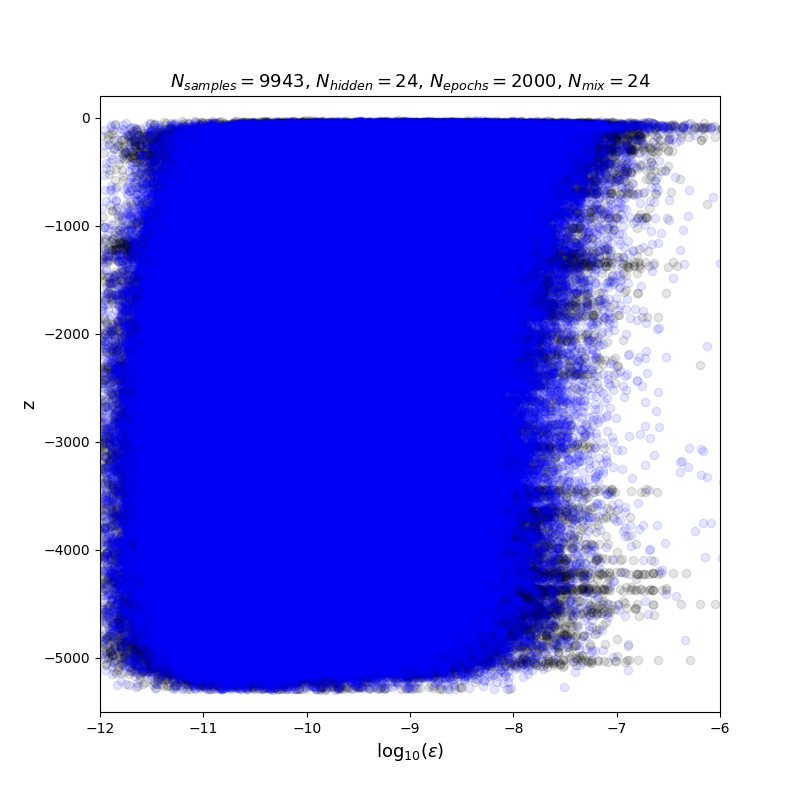
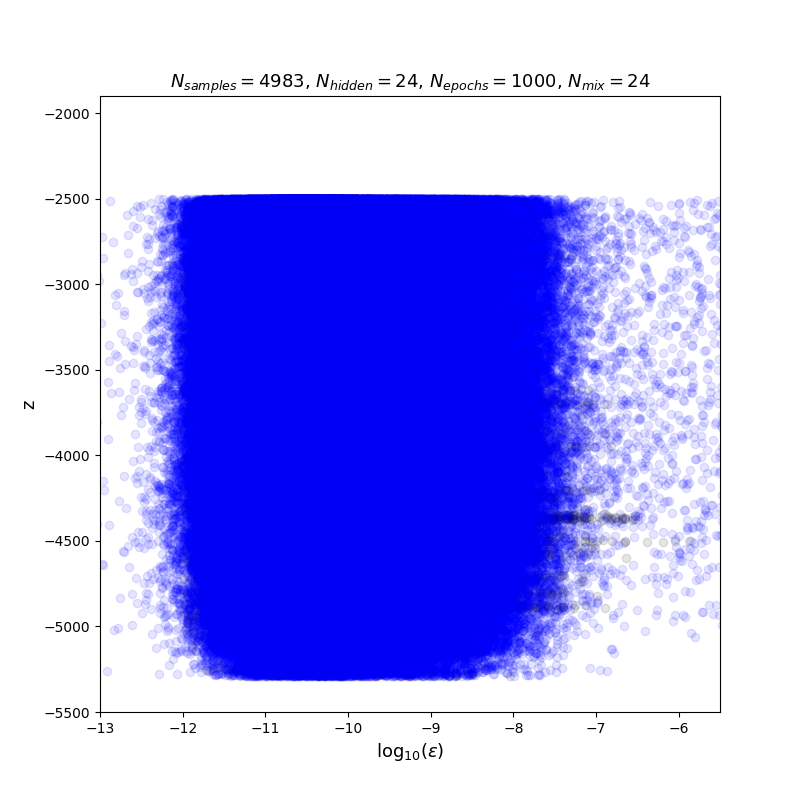
pdf prediction added

diff --git a/TensorOcean.py b/TensorOcean.py
@@ -31,24 +31,26 @@ SA = np.empty([0])
 CT = np.empty([0])
 eps = np.empty([0])
 z = np.empty([0])
-
+NMULTI = 4
 
 # loop over folder path
 count = 0
 plot_filenames = []
 
-
 onlyfiles = [f for f in listdir(data_path) if isfile(join(data_path, f))]
 Nfiles = np.shape(onlyfiles)[0] # number of files (time steps)
 
-Nfiles = 60
+Nfiles = 40
+Noffset = 10
+Nfiles0 = Nfiles
 
-for j in range(0,Nfiles):
+for j in range(Noffset,Nfiles+Noffset):
    my_file = data_path + '/' + onlyfiles[j] 
    print('file =', my_file)
    [N2j, SAj, CTj, epsj, zj] = fn.get_hydro(my_file,count)
    [N2j, SAj, CTj, epsj, zj] = fn.nanrid( N2j, SAj, CTj, epsj, zj )
    [N2j, SAj, CTj, epsj, zj] = fn.remove_outliers( N2j, SAj, CTj, epsj, zj )
+   [N2j, SAj, CTj, epsj, zj] = fn.throw_points_in_z( N2j, SAj, CTj, epsj, zj , -2500.)
    # do bin means
    N2=np.concatenate((N2,N2j),axis=0)
    SA=np.concatenate((SA,SAj),axis=0)
@@ -58,10 +60,20 @@ for j in range(0,Nfiles):
    count = count + 1
    #plot_filenames = np.append(plot_filenames,my_file)
 
-# add distribution
-
-NMULTI = 4
+#fn.pdf_plot( N2, SA, CT, eps, z )
 NSAMPLE = np.shape(N2)[0]
+
+train_log10eps = np.log10(eps)
+binsize1 = int((np.log10(np.amax(eps))-np.log10(np.amin(eps)))/0.05)
+plotname = figure_path +'training_histogram_eps.png' 
+fig = plt.figure(figsize=(8,5))
+plt.hist(train_log10eps, color = 'blue', edgecolor = 'black',
+         bins = binsize1)
+plt.xlabel(r"log$_{10}(\varepsilon)$",fontsize=13)
+plt.ylabel(r"number of measurements",fontsize=13)
+plt.title(r"training data $N_{samples}=$%i" %(NSAMPLE),fontsize=13)
+plt.xlim([-12.5,-6.5])
+plt.savefig(plotname,format="png"); plt.close(fig);
 
 plotname = figure_path +'training_data.png' 
 fig = plt.figure(figsize=(8, 8))
@@ -80,7 +92,7 @@ X_DATA[:,3] = SA[:]
 
 y_data = np.zeros([NSAMPLE,1])
 y_data[:,0] = np.log10(eps[:])
-print(np.shape(y_data))
+#print(np.shape(y_data))
 
 z_train = z
 
@@ -93,23 +105,23 @@ CT = np.empty([0])
 eps = np.empty([0])
 z = np.empty([0])
 
-
 # loop over folder path
 count = 0
 plot_filenames = []
 
-
 onlyfiles = [f for f in listdir(data_path) if isfile(join(data_path, f))]
 Nfiles = np.shape(onlyfiles)[0] # number of files (time steps)
 
-Nfiles = 1
+Nfiles2 = 1
+Noffset = 42
 
-for j in range(42,Nfiles+42):
+for j in range(Noffset,Nfiles2+Noffset):
    my_file = data_path + '/' + onlyfiles[j] 
    print('file =', my_file)
    [N2j, SAj, CTj, epsj, zj] = fn.get_hydro(my_file,count)
    [N2j, SAj, CTj, epsj, zj] = fn.nanrid( N2j, SAj, CTj, epsj, zj )
    [N2j, SAj, CTj, epsj, zj] = fn.remove_outliers( N2j, SAj, CTj, epsj, zj )
+   [N2j, SAj, CTj, epsj, zj] = fn.throw_points_in_z( N2j, SAj, CTj, epsj, zj , -2500.)
    # do bin means
    N2=np.concatenate((N2,N2j),axis=0)
    SA=np.concatenate((SA,SAj),axis=0)
@@ -119,10 +131,19 @@ for j in range(42,Nfiles+42):
    count = count + 1
    #plot_filenames = np.append(plot_filenames,my_file)
 
-# add distribution
-
-NMULTI = 4
 NSAMPLE = np.shape(N2)[0]
+
+test_log10eps = np.log10(eps)
+binsize2 = int((np.log10(np.amax(eps))-np.log10(np.amin(eps)))/0.05)
+plotname = figure_path +'test_histogram_eps.png' 
+fig = plt.figure(figsize=(8,5))
+plt.hist(test_log10eps, color = 'blue', edgecolor = 'black',
+         bins = binsize2)
+plt.xlabel(r"log$_{10}(\varepsilon)$",fontsize=13)
+plt.ylabel(r"number of measurements",fontsize=13)
+plt.title(r"test data $N_{samples}=$%i" %(NSAMPLE),fontsize=13)
+plt.xlim([-12.5,-6.5])
+plt.savefig(plotname,format="png"); plt.close(fig);
 
 plotname = figure_path +'test_data.png' 
 fig = plt.figure(figsize=(8, 8))
@@ -137,11 +158,9 @@ X_TEST[:,0] = N2[:]
 X_TEST[:,1] = z[:]
 X_TEST[:,2] = CT[:]
 X_TEST[:,3] = SA[:]
-#print(np.shape(X_DATA))
 
 y_test = np.zeros([NSAMPLE,1])
 y_test[:,0] = np.log10(eps[:])
-print(np.shape(y_test))
 
 z_test = z
 
@@ -178,7 +197,7 @@ sess = tf.InteractiveSession()
 sess.run(tf.global_variables_initializer())
 
 # = 6000 for NHIDDEN = 24, STDEV = 0.5, KMIX = 24
-NEPOCH = 2000 
+NEPOCH = 1000 
 loss = np.zeros(NEPOCH) # store the training progress here.
 for i in range(NEPOCH):
   sess.run(train_op,feed_dict={x: X_DATA, y: y_data})
@@ -192,20 +211,56 @@ plt.xlabel(r"$N_{epoch}$",fontsize=13)
 plt.title(r"$N_{samples}=$%i, $N_{hidden}=$%i, $N_{epochs}=$%i, $N_{mix}=$%i" %(NSAMPLE,NHIDDEN,NEPOCH,KMIX),fontsize=13)
 plt.savefig(plotname,format="png"); plt.close(fig);
 
-
 # training data prediction:
 out_pi_train, out_sigma_train, out_mu_train = sess.run(fn.get_mixture_coeff(output,KMIX), feed_dict={x: X_DATA})
-y_train_pred = fn.generate_ensemble( out_pi_train, out_mu_train, out_sigma_train, X_DATA , 1 )
-
-#print(np.shape(out_pi_train), np.shape(out_mu_train), np.shape(out_sigma_train))
+y_train_pred = fn.generate_ensemble( out_pi_train, out_mu_train, out_sigma_train, X_DATA , 10 )
+#print(np.shape(out_pi_train), np.shape(out_sigma_train), np.shape(out_mu_train))
 
 # test data prediction:
 out_pi_test, out_sigma_test, out_mu_test = sess.run(fn.get_mixture_coeff(output,KMIX), feed_dict={x: X_TEST})
-y_test_pred = fn.generate_ensemble( out_pi_test, out_mu_test, out_sigma_test, X_TEST , 1 )
-
-#print(np.shape(out_pi_test), np.shape(out_mu_test), np.shape(out_sigma_test))
+y_test_pred = fn.generate_ensemble( out_pi_test, out_mu_test, out_sigma_test, X_TEST , 10 )
+#print(np.shape(out_pi_test), np.shape(out_sigma_test), np.shape(out_mu_test))
 
 sess.close()
+
+#print(np.shape(y_test_pred))
+#print(np.shape(y_train_pred))
+y_test_pred_f = np.ndarray.flatten(y_test_pred)
+y_train_pred_f = np.ndarray.flatten(y_train_pred)
+#print(np.shape(y_test_pred_f))
+#print(np.shape(y_train_pred_f))
+
+
+
+#binsize = int( (np.amax(y_train_pred)-np.amin(y_train_pred))/0.05 )
+plotname = figure_path +'train_histogram_eps_prediction.png' 
+fig = plt.figure(figsize=(8,5))
+#plt.hist(y_train_pred_f, color = 'purple', edgecolor = 'black',bins = binsize1)
+plt.hist(y_train_pred[:,0], color = 'red', edgecolor = 'black',bins = int(binsize1*4), alpha = 0.2,label=r"prediction")
+plt.hist(train_log10eps, color = 'blue', edgecolor = 'black', bins = binsize2, alpha = 0.25,label=r"data")
+plt.xlabel(r"log$_{10}(\varepsilon)$",fontsize=13)
+plt.ylabel(r"samples",fontsize=13)
+#plt.title(r"training data $N_{samples}=$%i" %(np.shape(y_train_pred_f)[0]),fontsize=13)
+#plt.title(r"training data $N_{samples}=$%i" %(np.shape(y_train_pred[:,0])[0]),fontsize=13)
+plt.title(r"training data, $N_{profiles}=$%i" %(Nfiles0),fontsize=13)
+plt.xlim([-12.5,-6.5]) #0.,np.amax(y_train_pred[:,0])*1.1])
+plt.legend(loc=1)
+plt.savefig(plotname,format="png"); plt.close(fig);
+
+#binsize = int( (np.amax(y_test_pred)-np.amin(y_test_pred))/0.05 )
+plotname = figure_path +'test_histogram_eps_prediction.png' 
+fig = plt.figure(figsize=(8,5))
+#plt.hist(y_test_pred_f, color = 'purple', edgecolor = 'black',bins = binsize2)
+plt.hist(y_test_pred[:,0], color = 'red', edgecolor = 'black',bins = int(binsize2*7), alpha = 0.2,label=r"prediction")
+plt.hist(test_log10eps, color = 'blue', edgecolor = 'black', bins = binsize2, alpha = 0.25,label=r"data")
+plt.xlabel(r"log$_{10}(\varepsilon)$",fontsize=13)
+plt.ylabel(r"samples",fontsize=13)
+#plt.title(r"test data $N_{samples}=$%i" %(np.shape(y_test_pred_f)[0]),fontsize=13)
+#plt.title(r"test data $N_{samples}=$%i" %(np.shape(y_test_pred[:,0])[0]),fontsize=13)
+plt.title(r"test data, $N_{profiles}=$%i" %(Nfiles2),fontsize=13)
+plt.legend(loc=1)
+plt.xlim([-12.5,-6.5]) #plt.axis([-12.5,-6.5,0.,np.amax(y_test_pred[:,0])*1.1])
+plt.savefig(plotname,format="png"); plt.close(fig);
 
 plotname = figure_path +'training_prediction_mdn.png' 
 fig = plt.figure(figsize=(8, 8))
@@ -214,7 +269,7 @@ plt.plot(y_train_pred,z_train,'bo',alpha=alpha_level,label=r"predictions")
 plt.ylabel(r"z",fontsize=13)
 plt.xlabel(r"log$_{10}(\varepsilon)$",fontsize=13)
 plt.title(r"$N_{samples}=$%i, $N_{hidden}=$%i, $N_{epochs}=$%i, $N_{mix}=$%i" %(NSAMPLE,NHIDDEN,NEPOCH,KMIX),fontsize=13)
-plt.axis([-12.,-6.,-5500.,200.])
+plt.axis([-13,-5.5,-5500.,-1900.])
 plt.savefig(plotname,format="png"); plt.close(fig);
 
 plotname = figure_path +'test_prediction_mdn.png' 
@@ -224,14 +279,62 @@ plt.plot(y_test_pred,z_test,'bo',alpha=alpha_level,label=r"predictions")
 plt.ylabel(r"z",fontsize=13)
 plt.xlabel(r"log$_{10}(\varepsilon)$",fontsize=13)
 plt.title(r"$N_{samples}=$%i, $N_{hidden}=$%i, $N_{epochs}=$%i, $N_{mix}=$%i" %(NSAMPLE,NHIDDEN,NEPOCH,KMIX),fontsize=13)
-plt.axis([-12.,-6.,-5200.,0.])
+plt.axis([-13,-5.5,-5500.,-1900.])
 plt.savefig(plotname,format="png"); plt.close(fig);
 
 
+"""
+plotname = figure_path +'training_prediction_mdn_priors.png'
+fig = plt.figure(figsize=(8, 8))
+plt.plot(out_pi_train,z_train,'ko',alpha=alpha_level,label=r"priors")
+plt.ylabel(r"z",fontsize=13)
+plt.xlabel(r"$\alpha_i$(z), i=[1,$N_{mix}$]",fontsize=13)
+plt.title(r"$N_{samples}=$%i, $N_{hidden}=$%i, $N_{epochs}=$%i, $N_{mix}=$%i" %(NSAMPLE,NHIDDEN,NEPOCH,KMIX),fontsize=13)
+plt.savefig(plotname,format="png"); plt.close(fig);
+
+plotname = figure_path +'test_prediction_mdn_priors.png'
+fig = plt.figure(figsize=(8, 8))
+plt.plot(out_pi_test,z_test,'ko',alpha=alpha_level,label=r"priors")
+plt.ylabel(r"z",fontsize=13)
+plt.xlabel(r"$\alpha_i$(z), i=[1,$N_{mix}$]",fontsize=13)
+plt.title(r"$N_{samples}=$%i, $N_{hidden}=$%i, $N_{epochs}=$%i, $N_{mix}=$%i" %(NSAMPLE,NHIDDEN,NEPOCH,KMIX),fontsize=13)
+plt.savefig(plotname,format="png"); plt.close(fig);
+"""
+
+
+
+
+"""
+plotname = figure_path +'training_prediction_mdn_means.png'
+fig, ax1 = plt.subplots(figsize=(8, 8)) # = plt.figure(figsize=(8, 8))
+plt.plot(out_mu_train,z_train,'bo',alpha=alpha_level,label=r"mixture means")
+plt.plot(y_train_pred,z_train,'ro',alpha=alpha_level,label=r"prediction")
+ax2 = ax1.twinx()
+ax1.set_xlabel(r"x",fontsize=13)
+ax1.set_ylabel(r"y(x)",fontsize=13,color='red')
+ax2.set_ylabel(r"$\mu_i$(x), i=[1,$N_{mix}$]",fontsize=13,color='blue')
+plt.title(r"$N_{samples}=$%i, $N_{hidden}=$%i, $N_{epochs}=$%i, $N_{mix}=$%i" %(NSAMPLE,NHIDDEN,NEPOCH,KMIX),fontsize=13)
+plt.savefig(plotname,format="png"); plt.close(fig);
+
+plotname = figure_path +'test_prediction_mdn_means.png'
+fig, ax1 = plt.subplots(figsize=(8, 8)) # = plt.figure(figsize=(8, 8))
+plt.plot(out_mu_test,z_test,'bo',alpha=alpha_level,label=r"mixture means")
+plt.plot(y_test_pred,z_test,'ro',alpha=alpha_level,label=r"prediction")
+ax2 = ax1.twinx()
+ax1.set_xlabel(r"x",fontsize=13)
+ax1.set_ylabel(r"y(x)",fontsize=13,color='red')
+ax2.set_ylabel(r"$\mu_i$(x), i=[1,$N_{mix}$]",fontsize=13,color='blue')
+plt.title(r"$N_{samples}=$%i, $N_{hidden}=$%i, $N_{epochs}=$%i, $N_{mix}=$%i" %(NSAMPLE,NHIDDEN,NEPOCH,KMIX),fontsize=13)
+plt.savefig(plotname,format="png"); plt.close(fig);
+"""
+
+
+"""
 Nwindow = 40
+
 z_test_smooth = fn.smooth(z_test,Nwindow,'hanning')
-y_test_smooth = fn.smooth(y_test[:,0],Nwindow,'hanning')
-y_test_pred_smooth = fn.smooth(y_test_pred[:,0],Nwindow,'hanning')
+y_test_smooth = fn.smooth(np.mean(y_test,1),Nwindow,'hanning')
+y_test_pred_smooth = fn.smooth(np.mean(y_test_pred,1),Nwindow,'hanning')
 
 plotname = figure_path +'test_prediction_mdn_smooth.png' 
 fig = plt.figure(figsize=(8, 12))
@@ -240,5 +343,24 @@ plt.plot(y_test_pred_smooth,z_test_smooth,'b',alpha=0.9,label=r"predictions")
 plt.ylabel(r"z",fontsize=13)
 plt.xlabel(r"log$_{10}(\varepsilon)$",fontsize=13)
 plt.title(r"$N_{samples}=$%i, $N_{hidden}=$%i, $N_{epochs}=$%i, $N_{mix}=$%i" %(NSAMPLE,NHIDDEN,NEPOCH,KMIX),fontsize=13)
-plt.axis([-12.,-6.,-5200.,0.])
+plt.axis([-13,-5.5,-5200.,-1900.])
 plt.savefig(plotname,format="png"); plt.close(fig);
+"""
+
+
+"""
+z_train_smooth = fn.smooth(z_train,Nwindow,'hanning')
+y_train_smooth = fn.smooth(np.mean(y_data,1),Nwindow,'hanning')
+y_train_pred_smooth = fn.smooth(np.mean(y_train_pred,1),Nwindow,'hanning')
+
+plotname = figure_path +'train_prediction_mdn_smooth.png' 
+fig = plt.figure(figsize=(8, 12))
+plt.plot(y_train_smooth,z_train_smooth,'k',alpha=0.9,label=r"test data")
+plt.plot(y_train_pred_smooth,z_train_smooth,'b',alpha=0.9,label=r"predictions")
+plt.ylabel(r"z",fontsize=13)
+plt.xlabel(r"log$_{10}(\varepsilon)$",fontsize=13)
+plt.title(r"$N_{samples}=$%i, $N_{hidden}=$%i, $N_{epochs}=$%i, $N_{mix}=$%i" %(NSAMPLE,NHIDDEN,NEPOCH,KMIX),fontsize=13)
+plt.axis([-13,-5.5,-5200.,-1900.])
+plt.savefig(plotname,format="png"); plt.close(fig);
+"""
+

diff --git a/functions.py b/functions.py
@@ -57,7 +57,7 @@ def get_lossfunc(out_pi, out_sigma, out_mu, y):
 
 
 def get_pi_idx(x, pdf):
-  N = pdf.size
+  N = np.shape(pdf)[0]
   accumulate = 0
   for i in range(0, N):
     accumulate += pdf[i]
@@ -69,13 +69,11 @@ def get_pi_idx(x, pdf):
 
 def generate_ensemble(out_pi, out_mu, out_sigma, x_test , M ):
   NTEST = np.shape(x_test)[0] #x_test.size
-  #print(NTEST)
   result = np.random.rand(NTEST, M) # initially random [0, 1]
   rn = np.random.randn(NTEST, M) # normal random matrix (0.0, 1.0)
   mu = 0
   std = 0
   idx = 0
-
   # transforms result into random ensembles
   for j in range(0, M):
     for i in range(0, NTEST):
@@ -86,9 +84,8 @@ def generate_ensemble(out_pi, out_mu, out_sigma, x_test , M ):
   return result
 
 
-
 # =============================================================================    
-# classes and functions
+# all other functions
 
 def interp_to_edges( self_center , ze , zc , flag ):
  # self is centers
@@ -198,7 +195,6 @@ def weights(z,x,m):
       c[j,0] = c4*c[j,0]/c3
     c1 = c2
   return c
-
 
 
 def grid_check_zoom(A,z,Ae,ze,Ac,zc,fig_title,fig_xlabel,fig_plotname,fig_axis1,fig_axis2,fig_axis3,log_flag,range_number):
@@ -369,7 +365,7 @@ def get_hydro(my_file,count):
  #CT_mid = interp_to_centers( CT , z_mid , z )
 
  N2 = remove_bad_N2( N2 )
-
+ """
  plotname = figure_path +'N2_%i.png' %(count)
  fig = plt.figure()
  plt.plot(N2_mid,z_mid,'r')#,label="computed")
@@ -401,8 +397,19 @@ def get_hydro(my_file,count):
  plt.axis('tight') #[-0.0001,0.0005,-35.,-23.])
  #plt.grid()
  plt.savefig(plotname,format="png"); plt.close(fig);
-
+ """
  return N2, SA, CT, eps, z
+
+def throw_points_in_z( N2, SA, CT, eps, z , threshold):
+ #print('size = ',np.shape(N2))
+ for jj in range(0,np.shape(N2)[0]):
+  if z[jj] > threshold: 
+   N2[jj] = np.nan
+   SA[jj] = np.nan
+   CT[jj] = np.nan
+   eps[jj] = np.nan
+   z[jj] = np.nan
+ return nanrid( N2, SA, CT, eps, z )
 
 def throw_points( A, N2, SA, CT, eps, z ):
  locs = np.argwhere(np.isnan(A)-1)[:,0]
@@ -732,6 +739,21 @@ def pdf_plot( N2, SA, CT, eps, z ):
  plt.savefig(plotname,format="png"); plt.close(fig);
 
  return
+
+def pdf_plot_eps( eps ):
+ 
+ binsize = int((np.log10(np.amax(eps))-np.log10(np.amin(eps)))/0.05)
+ plotname = figure_path +'histogram_eps.png' 
+ fig = plt.figure(figsize=(8,5))
+ plt.hist(np.log10(eps), color = 'blue', edgecolor = 'black',
+         bins = binsize)
+ plt.xlabel(r"log$_{10}(\varepsilon)$",fontsize=13)
+ plt.ylabel(r"number of measurements",fontsize=13)
+ #ax.set_zlabel(r"$\varepsilon/\overline{\varepsilon}$",fontsize=13)
+ plt.savefig(plotname,format="png"); plt.close(fig);
+
+ return
+
 
 def line_plot_with_errorbars(A,z,fig_title,fig_xlabel,fig_plotname,fig_axis,log_flag,nu):
  # plots the entire profile for bin mean inspection
